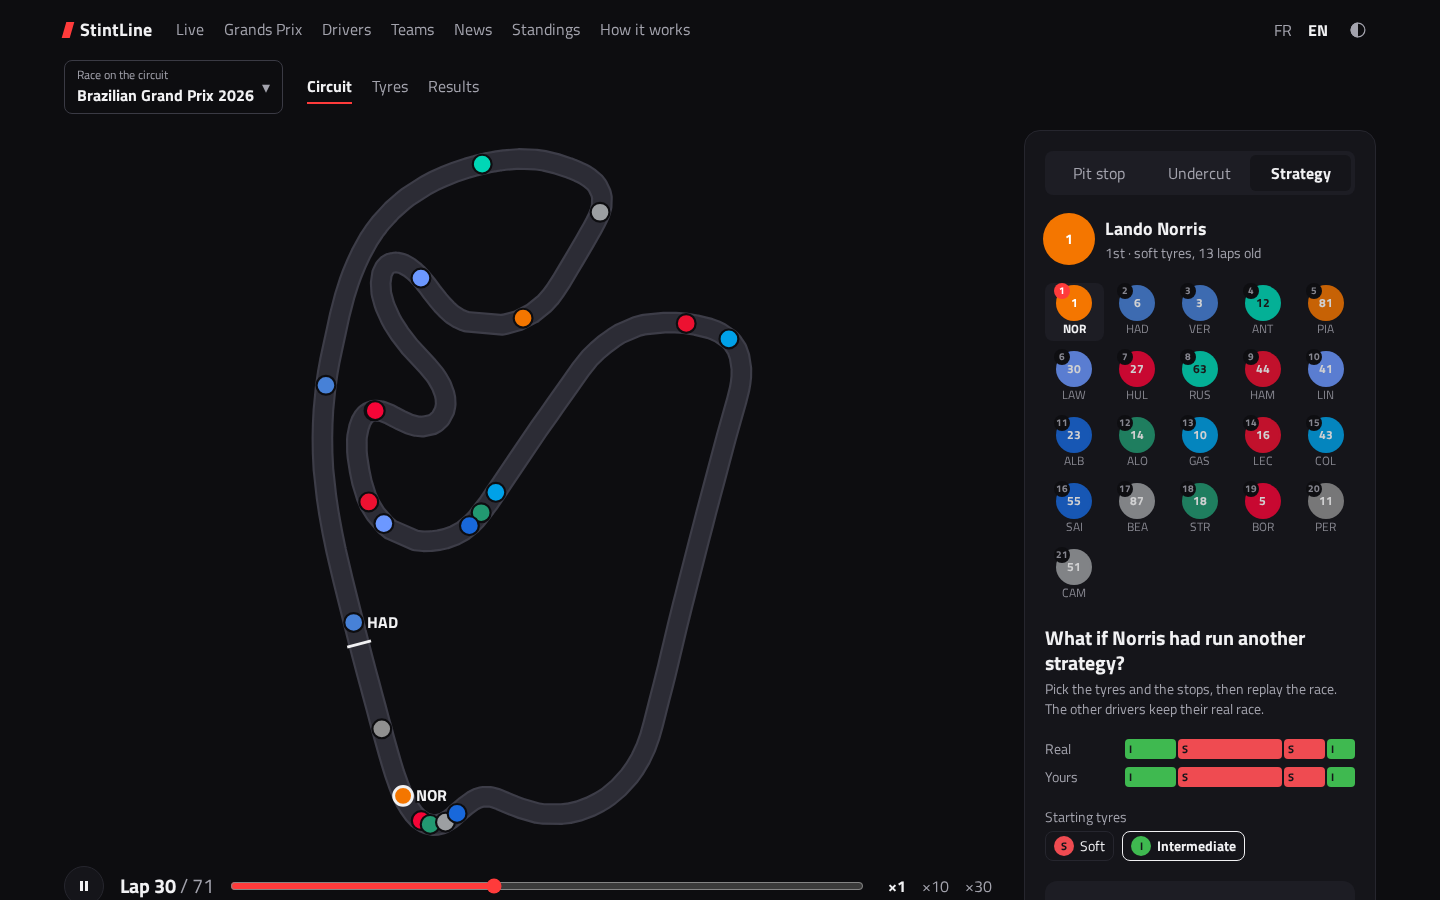
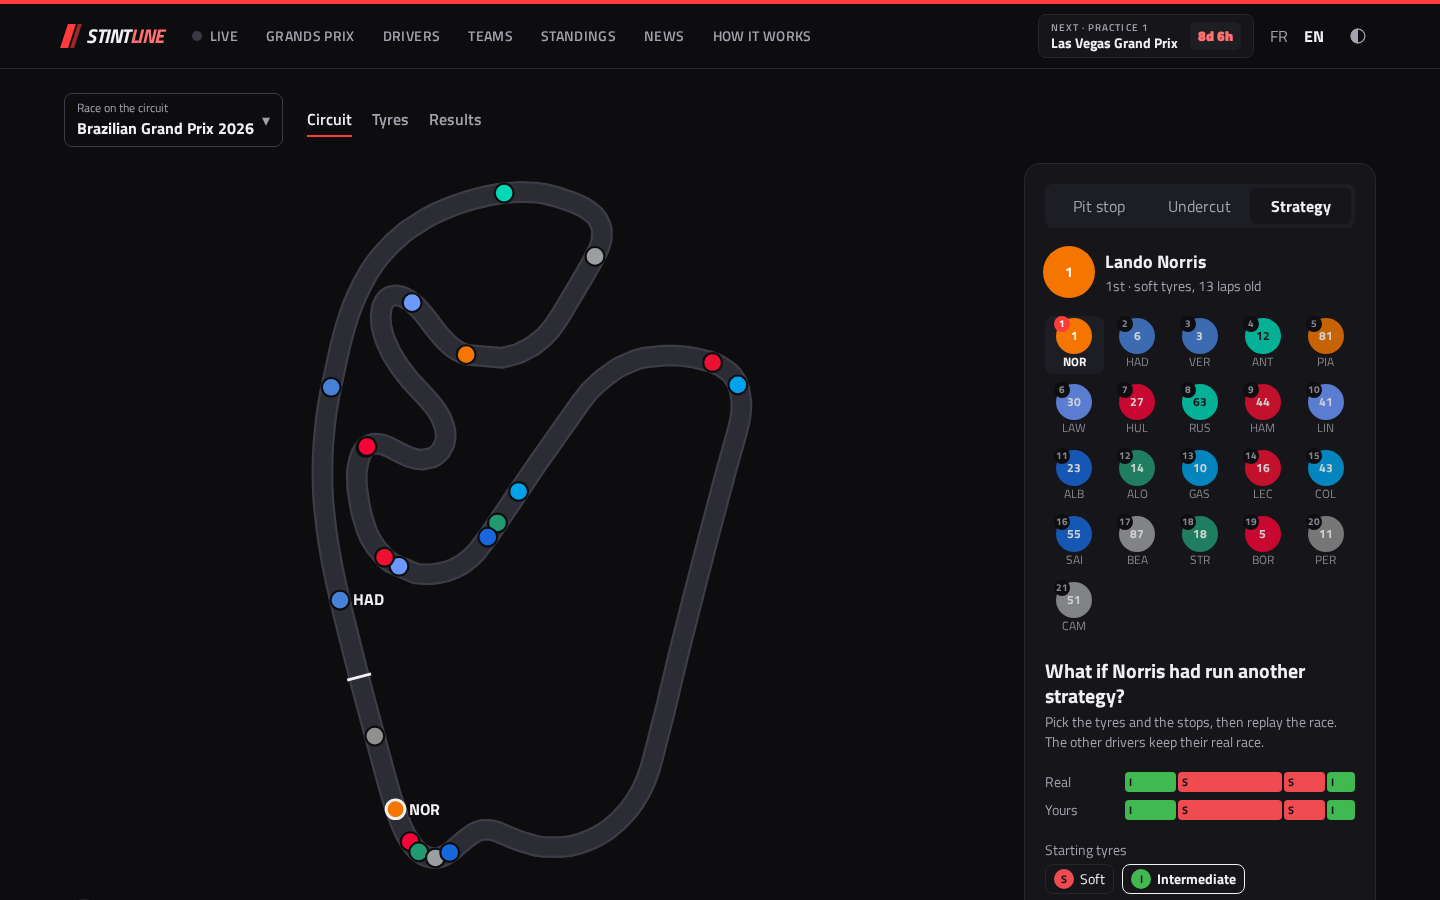
docs: add ADR 0014 on the broadcast design and refresh the README screenshots
Official media are on by default for the public demo (maintainer decision).
Running the live mode is documented in the README instead of on the site.

diff --git a/CLAUDE.md b/CLAUDE.md
@@ -13,6 +13,7 @@ It must stay accessible to casual fans first, with deeper charts for hardcore fa
 - Phase 10 done: news page (ADR 0012). Race and sprint reports written from our own data (facts from `stintline.news.reports`, sentences in EN/FR on the web), headlines from public RSS feeds (title and link only, `racedata.providers.feeds`), refreshed every 30 min; `/news`, `/news/:sessionId` and a news block on the home page.
 - Phase 10b done: lap telemetry and journalist-style reports (ADR 0013). Fastest clean lap of every driver (OpenF1 `car_data` + `location`, bounded), `TelemetryLap`, `stintline_strategy.telemetry` (distance, braking zones, gap along the lap), `GET /sessions/{id}/telemetry[/compare]`, a Telemetry tab on the Grand Prix analysis, and reports with the race story, sections and charts.
 - Phase 11 done: polish and README. Tab title per page (`useDocumentTitle`), pages loaded on demand (`React.lazy` behind a `Suspense` in the layout), phone fixes, retirements shown on driver results, faster season filters (`EXISTS`), a richer not-found page, a last-race replay link on the offline live page. README with screenshots (taken with third-party photos blocked), and a replay-only public demo with production images (`infra/docker-compose.demo.yml`, `make demo-up`, `docs/deploy.md`).
+- Phase 12 done: broadcast design for the public site (ADR 0014). Sticky header with live dot, next-session countdown and phone menu; home page hero on the last Grand Prix with the podium in official photos, next Grand Prix countdown and weekend schedule, both championships, news, season strip; Grand Prix cards drawn around the circuit outline (`circuit.outline`, also for races still to come); public live page (countdown, schedule, last replay, no commands); official portraits everywhere (`photo_url`); standings leaders; telemetry zoom on any part of the lap (`?zoom=`, corner buttons, section table); model page in four steps with key figures.
 - Roadmap (validated 2026-11-03): Phase 7 hub (home page, calendar and archive, driver and team profiles, photo driver picker, detailed analysis pages), Phase 8 what-if strategy replay, Phase 9 live mode with team radio, Phase 10 news, Phase 11 polish and README. Each phase gets its own plan for validation. Directories marked *(planned)* below do not exist yet.
 
 ## Architecture
@@ -128,5 +129,5 @@ Prerequisites: uv ≥ 0.9, Node ≥ 22.12 with pnpm 10, Docker with Compose v2. 
 - **Pit-stop durations.** Upstream "duration" fields mix pit-lane time (entry to exit) and stationary time depending on the source and season. Verify against fixtures, and name stored fields explicitly (`pit_lane_duration_s`, `stationary_duration_s`). Pit **loss** is computed by the strategy engine, never taken from upstream.
 - **Circuit outlines and telemetry.** OpenF1 `location` and `car_data` are fetched only over one lap (reference lap for the outline, each driver's fastest clean lap for telemetry), always bounded with `date>` / `date<`. Never request a whole race: tens of thousands of rows per car. Outline samples are evenly spaced in time; the UI relies on that to place cars. Telemetry distance is integrated from speed (no distance channel): compare laps by fraction of lap, never by raw metres.
 - **News.** Never store or show article text, summaries or images from feeds: headline and link only (ADR 0012). A report sentence is written only when its data exists (no race control → no safety-car claim). Bump `REPORT_FORMAT` in `stintline/news/api/views.py` when report fields change, so cached reports are rebuilt. The API container does not hot-reload: `docker compose restart api worker beat` after backend changes.
-- **Protected assets.** No team logos and no "F1" in product naming. Official driver portraits and car renders are allowed only as URL references behind `OFFICIAL_MEDIA_ENABLED` (ADR 0006): never download or commit them. Wikipedia portraits (ADR 0009) are freely licensed URL references and must keep their author and licence credit.
+- **Protected assets.** No team logos and no "F1" in product naming. Official driver portraits and car renders are allowed only as URL references behind `OFFICIAL_MEDIA_ENABLED` (ADR 0006, on by default since ADR 0014): never download or commit them. `photo_url` on drivers is the latest official portrait (cached, key changes with each import), else Wikipedia. Wikipedia portraits (ADR 0009) are freely licensed URL references and must keep their author and licence credit.
 - **Historical data gaps.** Jolpica has fastest-lap ranks only from 2004 (careers starting earlier report `null`), no qualifying for most seasons before 1994 (poles fall back to first on the grid), and gives lapped cars a time for fewer laps (show the gap in laps). OpenF1 has no pit-stop rows for the first six races of 2023.

diff --git a/docs/adr/0014-broadcast-design-for-the-public-site.md b/docs/adr/0014-broadcast-design-for-the-public-site.md
@@ -1,0 +1,40 @@
+# 0014. Broadcast design for the public site
+
+- Status: Accepted (maintainer decision, 2026-11-11). Amends the visual rules of ADR 0007 and ADR 0008.
+- Date: 2026-11-11
+
+## Context
+ADR 0007 made the circuit the interface and banned dashboards, stat tiles, gradients, glows and decorative cards. That fitted a strategy tool. Once StintLine became a public hub for fans (ADR 0008) and the hub pages were built, the maintainer reviewed the site as a visitor and found it unfit for production: too much empty space, a plain navigation bar, a list of Grands Prix that looked like a table, a live page that told visitors to run `make live`, Wikipedia photos where official ones exist, and telemetry charts that could not be zoomed.
+
+## Decision drivers
+- Pleasant for casual fans, rich enough for hardcore fans, on a phone as well as a desktop.
+- The circuit stays the signature visual.
+- No new dependency and zero budget. Official media remain URL references only (ADR 0006).
+- Accessibility (contrast, keyboard, text alternatives) must not regress.
+
+## Options considered
+### Keep the ADR 0007 rules and only tidy spacing
+- Pros: no rule change. Cons: does not answer "too empty" and "too plain"; hub pages need summary figures and visual anchors.
+
+### Magazine style (airy, large photos, editorial typography)
+- Pros: elegant. Cons: more empty space, the opposite of the feedback; few freely usable large photos.
+
+### **Broadcast style (television graphics of motorsport)**
+- Pros: familiar to the audience, dense by nature (lower thirds, timing towers, countdowns), works with the data we have: team colours, circuit outlines, official portraits. Cons: needs care not to become a cluttered dashboard.
+
+## Decision
+Broadcast style, with these rules (they replace the ADR 0007 bans on stat tiles and decorative cards):
+- **Frame.** A sticky header with a race-red top line, the italic StintLine wordmark, uppercase sections with a slanted red underline, a live dot, and the next session with a countdown. A phone menu replaces the scrolling link row. A footer carries the site map.
+- **Headings.** Page titles are heavy uppercase type with the red slash. Section titles use the same slash (`SectionTitle`).
+- **Cards are allowed when they carry data**: team colour as the top border and a solid tint (`teamTint`), the circuit outline as a watermark (`CircuitMark`, from the API's per-circuit `outline`), official portraits (`photo_url`). Pure decoration without data stays banned.
+- **Key figures as tiles** are allowed for summaries (countdown, backtest, top three). Detailed numbers stay in quiet tables.
+- **No empty columns.** A page column that ends early gets related content (older reports, a season strip) or a sticky chart.
+- **Texture.** A thin diagonal stripe texture is allowed on a hero only, at very low opacity. No glows.
+- **Public copy.** Pages never show commands or setup instructions. The live page shows a countdown, the weekend in the visitor's time zone and the last replay. Running the live mode is documented in the README.
+- **Official portraits by default** wherever a driver has one (`photo_url`: the latest official portrait, else Wikipedia). Report cards keep the Wikipedia photo, which is an editorial picture with its credit on the driver page.
+- **Telemetry zoom.** Dragging across the charts (or picking a corner) zooms every trace on that part of the lap, counts gaps from its start, frames the circuit on it and compares the drivers there. The zoom is kept in the URL.
+
+## Consequences
+- Positive: denser, more recognisable pages; the circuit outline now appears on every Grand Prix, including the next ones (from their last timed visit).
+- Negative / risks: more visual code to maintain; official portraits rely on a third-party CDN (ADR 0006 risk unchanged, the switch still turns them off).
+- Follow-ups: apply the same style to the race replay panel and the driver profile results table when they are next touched.

diff --git a/README.md b/README.md
@@ -4,7 +4,7 @@
 
 StintLine is a hub for Formula 1 fans built on public timing and results data. Replay a race lap by lap with the real cars on the real track. Ask "what if he had pitted now?", test an undercut, or run the whole race again with another tyre strategy. Then dig into lap charts, gaps, sectors and fastest-lap telemetry. Casual fans get plain answers first. The detailed charts are one click further.
 
-![Home page: last race podium, next Grand Prix, championship and latest news](docs/screenshots/home.png)
+![Home page: the last Grand Prix with its podium, the next one with a countdown, both championships](docs/screenshots/home.png)
 
 ## What you can do
 
@@ -15,7 +15,7 @@ StintLine is a hub for Formula 1 fans built on public timing and results data. R
 | **Undercut and overcut** | Lap-by-lap gain of stopping first against a rival, from fitted tyre wear and the circuit's pit loss. |
 | **Replay a whole race with another strategy** | Change one car's stops and compounds. The other drivers keep their real race, and you get the finishing-position chances. |
 | **Race analysis** | Key facts, positions and gaps lap by lap, lap times, tyre strategies, best sectors, top speeds. |
-| **Telemetry** | Compare fastest laps: speed, throttle, brake, gear and the gap along the lap, drawn on the circuit with braking zones. |
+| **Telemetry** | Compare fastest laps: speed, throttle, brake, gear and the gap along the lap, drawn on the circuit with braking zones. Drag across the charts (or pick a corner) to zoom on any part of the lap and compare the drivers there. |
 | **Every Grand Prix since 1950** | Results, qualifying, grids, driver and team careers, championship tables with the title-fight chart. |
 | **News** | Race reports written from the data (in English and French) and headline links to public sources. |
 | **Live mode (local)** | Follows the official timing feed from your own computer: running order, cars on the circuit, team radio, race control, TV delay. |
@@ -24,9 +24,11 @@ The interface is bilingual (English and French), works on phones, and has a ligh
 
 ![Replaying the 2026 Brazilian Grand Prix with the strategy simulator open](docs/screenshots/circuit-strategy.png)
 
-![Gap to the leader lap by lap on the Grand Prix page](docs/screenshots/race-analysis.png)
+![Grands Prix of the season drawn around their circuit, with the winner and a replay button](docs/screenshots/grands-prix.png)
 
-![Fastest-lap telemetry comparison between two drivers](docs/screenshots/telemetry.png)
+![Telemetry zoomed on one corner: speed, throttle, brake, gear and gap, the circuit framed on that section](docs/screenshots/telemetry.png)
+
+Screenshots are taken with third-party images blocked, so drivers appear as their coloured initials. The site shows their official portraits.
 
 ## Quick start
 
@@ -49,6 +51,17 @@ On its first start the Celery worker imports the current season, then every race
 | Results, qualifying and standings since 1950 | `uv run python apps/api/manage.py ingest_history` | a few hours, can be resumed |
 
 `make help` lists every target. `CLAUDE.md` is the full reference for commands, conventions and known pitfalls.
+
+## Live mode at home
+
+The live page of the public site shows the next session with a countdown, the weekend in your time zone and the last replay. To follow a session live (running order, cars on the circuit, team radio, race control, TV delay), run StintLine on your own computer from a home connection:
+
+```bash
+make up      # the stack
+make live    # follows the official timing feed and records it to ./recordings
+```
+
+The official feed is for personal use and does not answer cloud servers, which is why the public site is replay-only (ADR 0002, ADR 0011).
 
 ## The strategy model
 

diff --git a/docs/deploy.md b/docs/deploy.md
@@ -41,7 +41,7 @@ Any machine with Docker works. The stack is light: under 1 GB of RAM in use with
 
 ## Media
 
-`OFFICIAL_MEDIA_ENABLED=false` is the default for the demo. Driver cards then use Wikipedia portraits with their credit (ADR 0009), or the original numbered avatars and team-colour illustrations. Official portraits and car renders are only ever linked from their original URLs (ADR 0006). Turn them on only if you are comfortable with that on a public site.
+`OFFICIAL_MEDIA_ENABLED=true` is the default (maintainer decision, ADR 0014): drivers show their latest official portrait and teams their car render, only ever linked from their original URLs and never stored (ADR 0006). Set it to `false` to fall back at once to Wikipedia portraits with their credit (ADR 0009) and the original numbered avatars and team-colour illustrations.
 
 ## Updating
 
